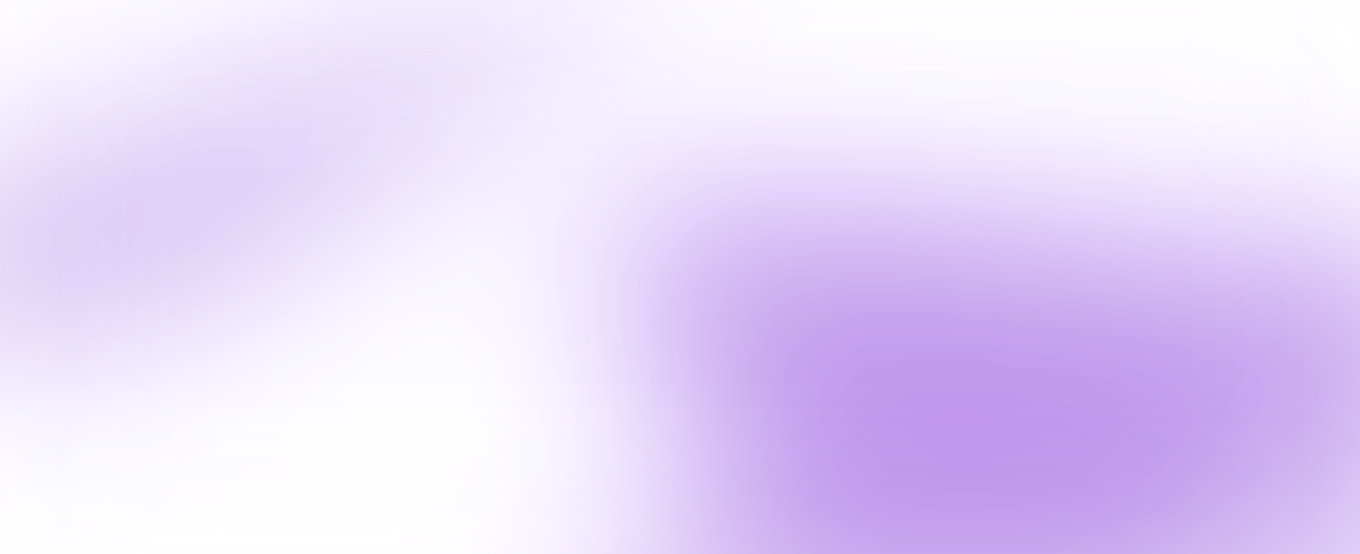
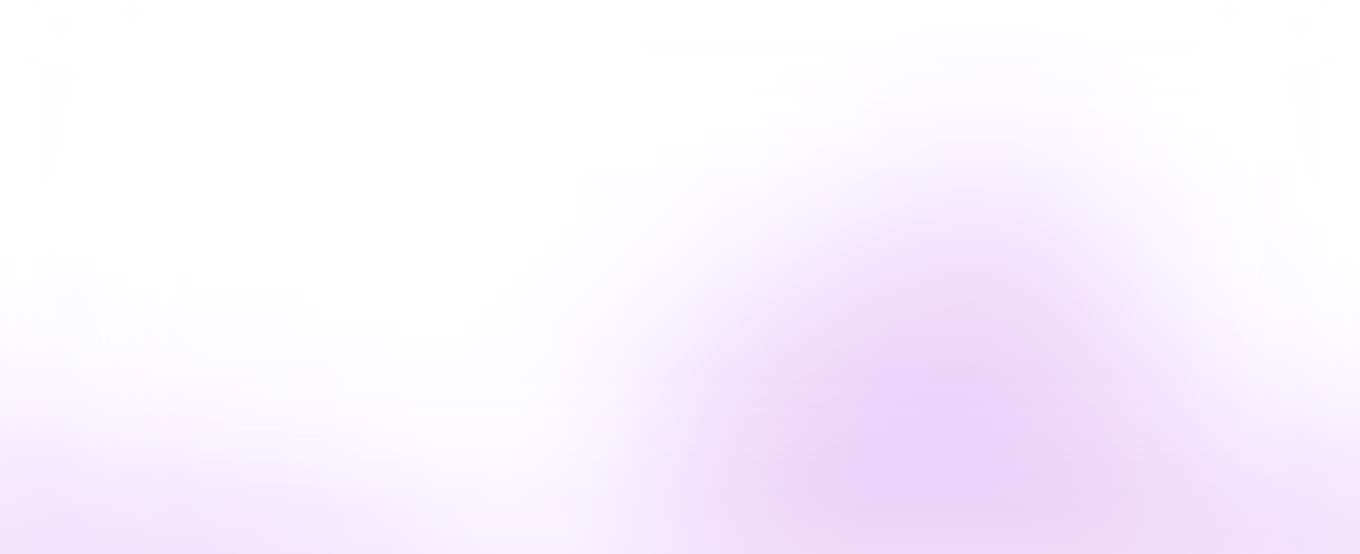
grid

diff --git a/reactRouter/src/components/nav/Nav.jsx b/reactRouter/src/components/nav/Nav.jsx
@@ -34,10 +34,10 @@ const Navbar = () => {
         <h1>Web/Shop</h1>
         <img src="logo_identical.svg" alt="" />
       </div>
-      <div class="container-input">
-        <input type="text" placeholder="Search" name="text" class="input" />
-        <svg fill="#000000" width="20px" height="20px" viewBox="0 0 1920 1920" xmlns="http://www.w3.org/2000/svg">
-          <path d="M790.588 1468.235c-373.722 0-677.647-303.924-677.647-677.647 0-373.722 303.925-677.647 677.647-677.647 373.723 0 677.647 303.925 677.647 677.647 0 373.723-303.924 677.647-677.647 677.647Zm596.781-160.715c120.396-138.692 193.807-319.285 193.807-516.932C1581.176 354.748 1226.428 0 790.588 0S0 354.748 0 790.588s354.748 790.588 790.588 790.588c197.647 0 378.24-73.411 516.932-193.807l516.028 516.142 79.963-79.963-516.142-516.028Z" fill-rule="evenodd"></path>
+      <div className="container-input">
+        <input type="text" placeholder="Search" name="text" className="input" />
+        <svg fillRule="#000000" width="20px" height="20px" viewBox="0 0 1920 1920" xmlns="http://www.w3.org/2000/svg">
+          <path d="M790.588 1468.235c-373.722 0-677.647-303.924-677.647-677.647 0-373.722 303.925-677.647 677.647-677.647 373.723 0 677.647 303.925 677.647 677.647 0 373.723-303.924 677.647-677.647 677.647Zm596.781-160.715c120.396-138.692 193.807-319.285 193.807-516.932C1581.176 354.748 1226.428 0 790.588 0S0 354.748 0 790.588s354.748 790.588 790.588 790.588c197.647 0 378.24-73.411 516.932-193.807l516.028 516.142 79.963-79.963-516.142-516.028Z" fillRule="evenodd"></path>
         </svg>
       </div>
 
@@ -54,8 +54,8 @@ const Navbar = () => {
         <li className="nav-item">
           <button className='btn'>
             Sign up
-            <div class="arrow-wrapper">
-              <div class="arrow"></div>
+            <div className="arrow-wrapper">
+              <div className="arrow"></div>
             </div>
           </button>
         </li>

diff --git a/reactRouter/src/pages/Home/Home.css b/reactRouter/src/pages/Home/Home.css
@@ -34,13 +34,13 @@
     /* max-width: 99%; */
     /* margin: 0 auto; */
     display: flex;
-    justify-content: center;
+    /* justify-content: center; */
     align-items: center;
-    padding: 80px 20px;
+    padding: 60px 20px;
     /* background-color: #ee1616; */
     /* border-radius: px; */
     /* margin-bottom: 30px; */
-    background-image: url("bg2.png");
+    background-image: url("bg3.png");
     background-size: cover;
     background-position: bottom;
     /* filter: blur(1px); */
@@ -48,36 +48,35 @@
 
 
 .home-banner {
-    text-align: center;
-    max-width: 800px;
-    margin: 83px;
+    text-align: start;
+    max-width: 600px;
+    margin: 80px 50px;
+    /* background-color: turquoise; */
 }
 
 .home-banner h1 {
     font-size: 3em;
-    color: var(--roxo1);
+    color: rgb(0, 0, 0);
     margin-bottom: 20px;
+    text-align: start;
 }
 
 .home-banner p {
     font-size: 1.2em;
-    color: var(--roxo2);
+    color:  rgb(43, 43, 43);
     margin-bottom: 30px;
 }
 
 .shop-now-button {
-    background-color: #fc685a;
-    color: #fff;
-    padding: 15px 30px;
-    border: none;
-    border-radius: 5px;
-    cursor: pointer;
-    font-size: 1.2em;
-    transition: background-color 0.3s ease;
+    width: 160px;
+    /* margin: 0 auto; */
+    font-size: 18px;
+    border-radius: 50px !important;
+    /* height: 50px; */
 }
 
 .shop-now-button:hover {
-    background-color: #fd4a3a;
+    background-color: var(--roxo3-hover);
 }
 
 .highlights-section {

diff --git a/reactRouter/src/pages/Home/Home.jsx b/reactRouter/src/pages/Home/Home.jsx
@@ -12,7 +12,12 @@ function Home({ data }) {
         <div className="home-banner">
           <h1>Bem-vindo à Web/Shop</h1>
           <p>Cadastre-se agora e descubra produtos incríveis com os melhores preços. Qualidade e inovação esperam por você!</p>
-          <button className="shop-now-button">Criar conta</button>
+          <button className='btn shop-now-button'>
+            Cadastrar
+            <div className="arrow-wrapper">
+              <div className="arrow"></div>
+            </div>
+          </button>
         </div>
       </div>
       <div className="highlights-section">

diff --git a/reactRouter/src/index.css b/reactRouter/src/index.css
@@ -6,7 +6,7 @@
   --roxo1: #6C51A6;
   --roxo2: #7263A6;
   --roxo3: #C7BFD9;
-  --roxo3-hover: #7e5ec4;
+  --roxo3-hover: #6336c4;
   --cinzaClaro: #F2F2F2;
   --cinzaClaro-transparent: #f2f2f2da;
   --cinzaEscuro: #404040;
@@ -67,7 +67,7 @@ h1 {
 }
 
 .btn:hover {
-  background-color: var(--hover-color);
+  background-color: var(--roxo3-hover);
 }
 
 .btn:hover .arrow {

diff --git a/reactRouter/src/components/nav/Nav.css b/reactRouter/src/components/nav/Nav.css
@@ -1,7 +1,7 @@
 /* src/components/Navbar.css */
 
 .navbar {
-  background-color: rgba(255, 255, 255, 0.493);
+  background-color: rgb(255, 255, 255);
   display: flex;
   justify-content: space-between;
   align-items: center;
